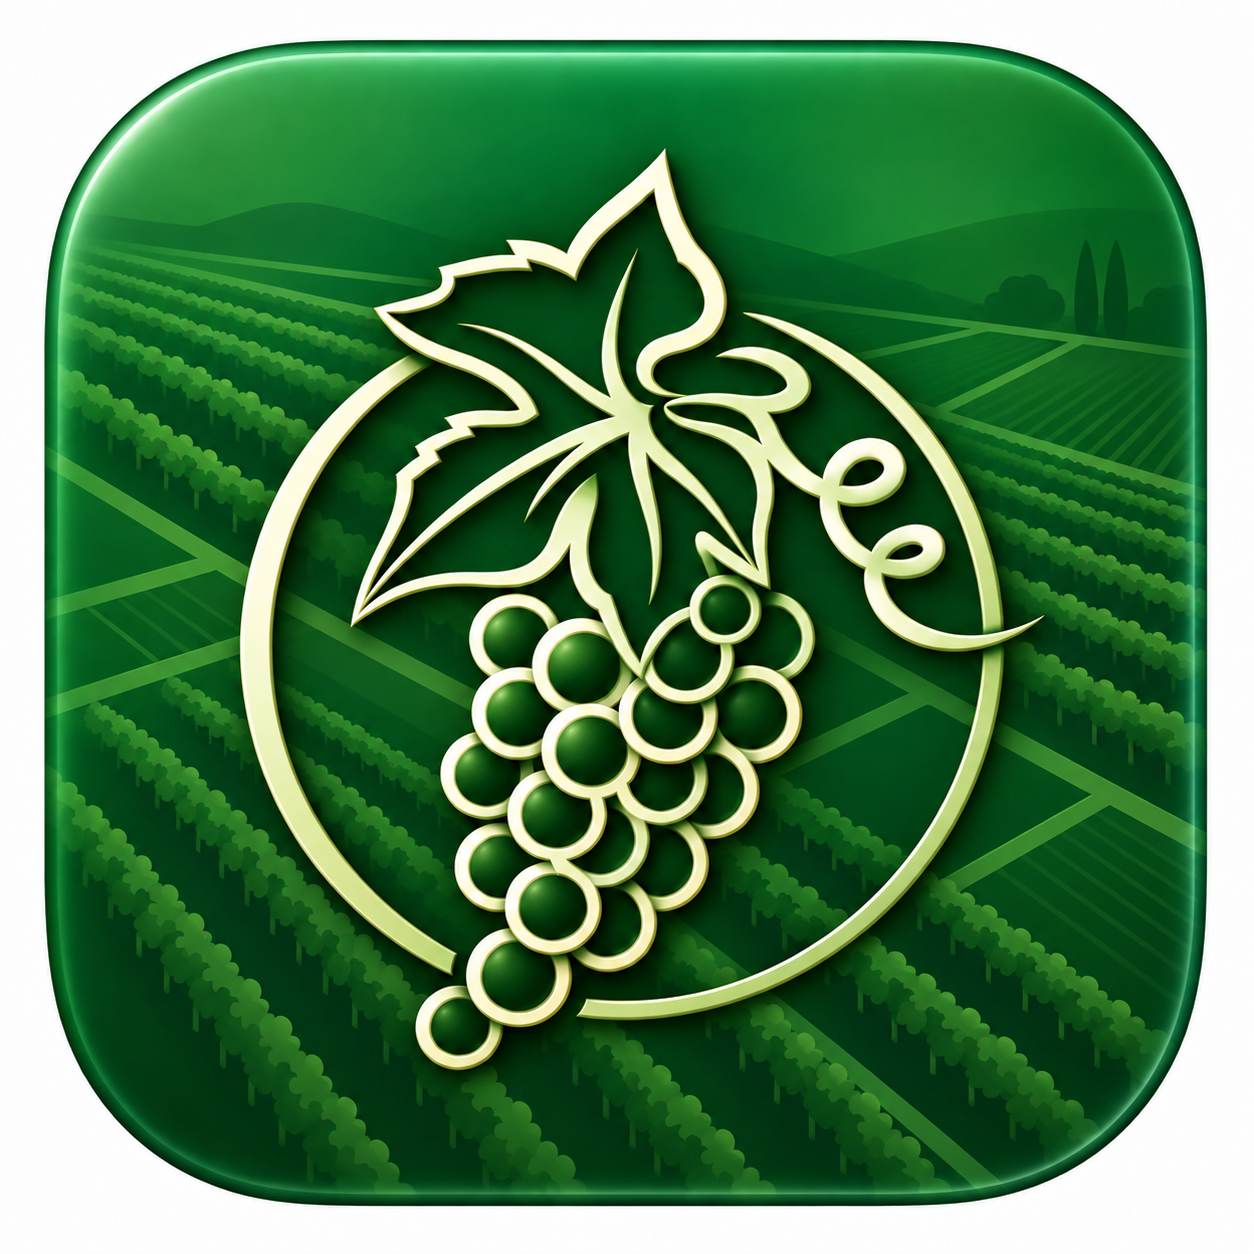
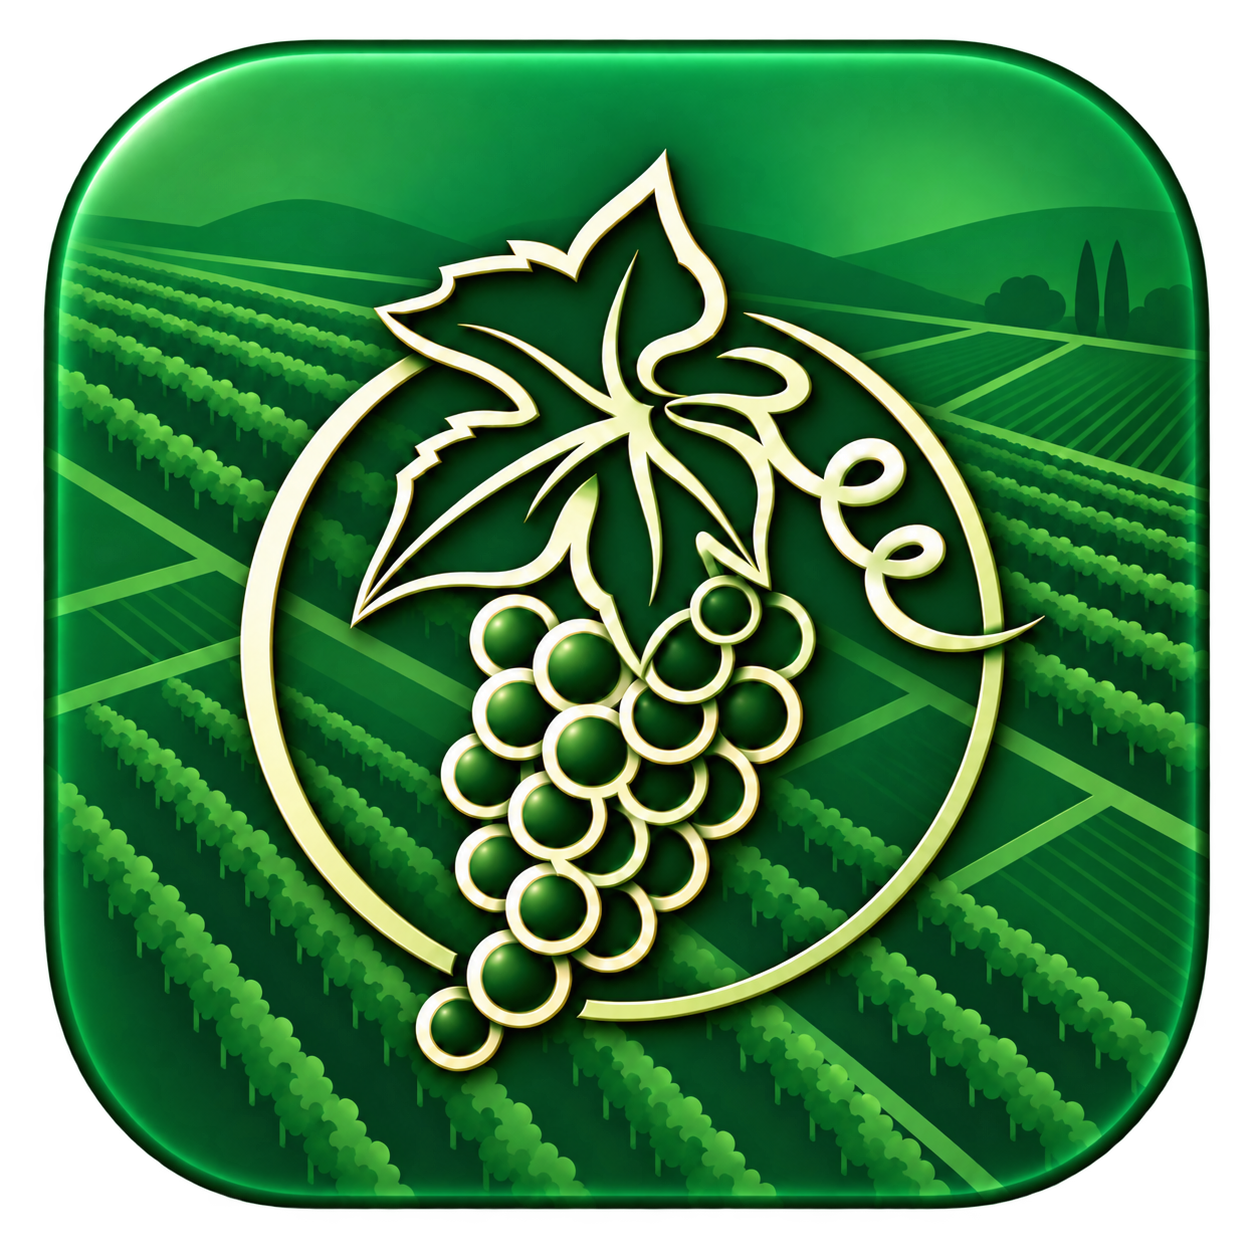
Add files via upload

diff --git a/src/mobile-ui.js b/src/mobile-ui.js
@@ -14,7 +14,7 @@ export function createMobileUI(api){
  const root=document.createElement('div');root.id='mobile-app';root.className='mobile-only';
  root.innerHTML=`
  <div id="mobile-map-host"></div>
- <header class="mobile-brand"><img src="./assets/logo-vivai-obice-v14.png?v=14" alt="Vivai Obice"/><span>AMBIENTE TEST · V24.1</span></header>
+ <header class="mobile-brand"><img src="./assets/logo-vivai-obice-v14.png?v=14" alt="Vivai Obice"/><span>AMBIENTE TEST · V25</span></header>
  <div class="mobile-home-tools"><button data-sheet="search" aria-label="Cerca località">${icon('search')}</button><button data-sheet="calculator" aria-label="Calcolatore rapido">${icon('calc')}</button><button data-sheet="layers" aria-label="Livelli mappa">${icon('layers')}</button></div>
  <div class="mobile-home-bottom"><button id="mobile-active-field" class="mobile-field-chip"></button></div>
  <button id="mobile-add-field" class="mobile-primary" aria-label="Aggiungi campo">${icon('plus')}<span>Campo</span></button>
@@ -23,7 +23,7 @@ export function createMobileUI(api){
  <div id="mobile-drawing-actions"><button id="mobile-undo">↶ Ultimo punto</button><button id="mobile-stop-tool">Annulla disegno</button><button id="mobile-finish-edit">Fine modifica</button></div>
  <main id="mobile-pages">
   <section data-screen="fields"><header class="mobile-page-heading"><h1>Campi</h1><button id="mobile-add-from-fields" aria-label="Aggiungi campo">${icon('plus')}</button></header><div id="mobile-fields-total"></div><div id="mobile-fields-list"></div></section>
-  <section data-screen="detail"><header class="mobile-page-heading"><button data-go="fields" aria-label="Torna ai campi">${icon('back')}</button><h1 id="mobile-detail-title">Campo</h1></header><div id="mobile-field-detail"></div><div class="mobile-two-actions"><button id="mobile-edit-parameters" class="mobile-primary">Modifica impianto</button><button id="mobile-edit-map">Modifica sulla mappa</button></div><div class="mobile-two-actions"><button id="mobile-detail-pdf">Proposta / PDF</button><button id="mobile-detail-quote">Preventivo</button></div><button id="mobile-delete-field" class="mobile-delete-field">Elimina campo</button></section>
+  <section data-screen="detail"><header class="mobile-page-heading"><button data-go="fields" aria-label="Torna ai campi">${icon('back')}</button><h1 id="mobile-detail-title">Campo</h1></header><div id="mobile-detail-map" aria-label="Mappa satellitare interattiva del campo"></div><div id="mobile-field-detail"></div><div class="mobile-two-actions"><button id="mobile-edit-parameters" class="mobile-primary">Modifica impianto</button><button id="mobile-edit-map">Modifica sulla mappa</button></div><div class="mobile-two-actions"><button id="mobile-detail-pdf">Proposta / PDF</button><button id="mobile-detail-quote">Preventivo</button></div><button id="mobile-delete-field" class="mobile-delete-field">Elimina campo</button></section>
   <section data-screen="parameters"><header class="mobile-page-heading"><button id="mobile-cancel-field">Annulla</button><h1>Imposta l’impianto</h1></header><div id="mobile-parameters-preview"></div><div id="mobile-parameters-body"></div><button id="mobile-parameters-map">Modifica perimetro e passaggi</button><div id="mobile-parameters-metrics"></div><p id="mobile-save-error" role="alert"></p><button id="mobile-save-field" class="mobile-primary">Salva impianto</button><p class="mobile-storage-note">Salvato su questo dispositivo. PDF e preventivo sono disponibili nella scheda del campo.</p></section>
   <section data-screen="projects"><header class="mobile-page-heading"><h1>Progetti</h1><button id="mobile-new-project">${icon('plus')} Nuovo</button></header><label class="mobile-label">Nome progetto<input id="mobile-project-name" maxlength="80" placeholder="Il mio impianto"/></label><button id="mobile-save-project" class="mobile-primary">Salva progetto attuale</button><p class="mobile-storage-note">Progetti salvati su questo dispositivo</p><div id="mobile-projects-list"></div></section>
  </main>
@@ -37,9 +37,12 @@ export function createMobileUI(api){
  function showNotice(message){$('#mobile-notice').textContent=message;$('#mobile-notice').hidden=false;}
  function placeMap(next){
   const preview=$('#mobile-parameters-preview');
+  map.classList.toggle('mobile-viewer-only',next==='detail');
   if(next==='parameters'){
    preview.replaceChildren();preview.dataset.base='satellite';preview.append(map);api.showSatellitePreview?.();
    $('#mobile-parameters-body').dataset.mobileInteractive='true';
+  }else if(next==='detail'){
+   const detail=$('#mobile-detail-map');detail.replaceChildren();detail.dataset.base='satellite';detail.append(map);api.showSatellitePreview?.();
   }else{
    const host=$('#mobile-map-host');host.append(map);delete preview.dataset.base;
    if(next==='fields'){host.dataset.base='satellite';api.showSatellitePreview?.();}
@@ -49,6 +52,7 @@ export function createMobileUI(api){
  function protectNativeControls(container){
   for(const type of ['touchstart','touchend','pointerdown','pointerup'])container.addEventListener(type,event=>{
    const control=event.target.closest?.('input,select,textarea');if(!control)return;
+   if(control.matches('select'))return;
    if(type==='touchstart'&&control.matches('input:not([type="range"]):not([type="checkbox"]),textarea')){
     try{control.focus({preventScroll:true});}catch{control.focus();}
    }
@@ -68,7 +72,7 @@ export function createMobileUI(api){
   if(next!=='editor'){api.stopTools();drawing=false;editing=false;}
   placeOrientation();renderField();
   if(next==='fields')renderFields();if(next==='detail')renderDetail();if(next==='projects')renderProjects();
-  api.resizeMap();if(next==='map')api.focusAll();
+  api.resizeMap();if(next==='map')api.focusAll();if(next==='detail')api.focusField();
  }
  function placeOrientation(){
   const parent=screen==='editor'?sheet.querySelector('[data-content="orientation"]'):$('.step[data-step="2"]');
@@ -120,7 +124,21 @@ export function createMobileUI(api){
   $('#mobile-fields-total').innerHTML=`<strong>${fields.length} campi · ${area(sum('areaM2'))}</strong><span>${n(sum('simulatedPlants'))} barbatelle · ${n(sum('totalPosts'))} pali</span><small>${n(sum('intermediatePosts'))} intermedi · ${n(sum('headPosts'))} di testa</small>`;
   const list=$('#mobile-fields-list');list.replaceChildren();
   if(!fields.length){list.innerHTML='<p class="mobile-empty">Nessun campo disegnato. Aggiungi il primo campo dalla mappa.</p>';return;}
-  for(const field of fields){const m=api.getMetrics(field),row=document.createElement('div'),button=document.createElement('button'),remove=document.createElement('button');row.className='mobile-field-card-row';button.type='button';button.className='mobile-field-card';button.dataset.fieldId=field.id;button.innerHTML=`<div class="mobile-card-preview">${preview(field)}</div><div><strong>${escape(field.label)}</strong><span>${area(m.areaM2)} · ${n(m.simulatedPlants)} barbatelle</span><small>${escape(field.grapeVariety||'Vitigno da definire')} · ${n(m.totalPosts)} pali</small></div><b aria-hidden="true">›</b>`;button.addEventListener('click',()=>openField(field.id));remove.type='button';remove.className='mobile-card-delete';remove.dataset.removeField=field.id;remove.setAttribute('aria-label',`Elimina ${field.label}`);remove.textContent='−';remove.addEventListener('click',()=>deleteField(field.id));row.append(button,remove);list.append(row);}
+  for(const field of fields){
+   const m=api.getMetrics(field),row=document.createElement('div'),button=document.createElement('button'),remove=document.createElement('button');
+   let swipeStartX=null,suppressOpen=false;
+   row.className='mobile-field-card-row';button.type='button';button.className='mobile-field-card';button.dataset.fieldId=field.id;
+   button.innerHTML=`<div class="mobile-card-preview">${preview(field)}</div><div><strong>${escape(field.label)}</strong><span>${area(m.areaM2)} · ${n(m.simulatedPlants)} barbatelle</span><small>${escape(field.grapeVariety||'Vitigno da definire')} · ${n(m.totalPosts)} pali</small></div><b aria-hidden="true">›</b>`;
+   button.addEventListener('pointerdown',event=>{swipeStartX=event.clientX;});
+   button.addEventListener('pointerup',event=>{
+    if(swipeStartX===null)return;const delta=event.clientX-swipeStartX;swipeStartX=null;if(Math.abs(delta)<45)return;
+    suppressOpen=true;for(const other of list.querySelectorAll('.mobile-field-card-row.delete-revealed'))if(other!==row)other.classList.remove('delete-revealed');
+    row.classList.toggle('delete-revealed',delta<0);remove.setAttribute('aria-hidden',delta<0?'false':'true');remove.tabIndex=delta<0?0:-1;
+   });
+   button.addEventListener('click',()=>{if(suppressOpen){suppressOpen=false;return;}openField(field.id);});
+   remove.type='button';remove.className='mobile-card-delete';remove.dataset.removeField=field.id;remove.setAttribute('aria-label',`Elimina ${field.label}`);remove.setAttribute('aria-hidden','true');remove.tabIndex=-1;remove.textContent='Elimina';remove.addEventListener('click',()=>deleteField(field.id));
+   row.append(remove,button);list.append(row);
+  }
  }
  function openField(id){if(transaction)return;api.selectField(id);navigate('detail');}
  function deleteField(id){
@@ -129,7 +147,7 @@ export function createMobileUI(api){
  }
  function renderDetail(){
   const field=api.getField();$('#mobile-detail-title').textContent=field.label||'Campo';
-  $('#mobile-field-detail').innerHTML=`<div class="mobile-large-preview">${preview(field)}</div>${metricsHtml(field)}<dl class="mobile-materials">${[
+  $('#mobile-field-detail').innerHTML=`${metricsHtml(field)}<dl class="mobile-materials">${[
    ['Sesto',`${n(field.plantSpacingM)} × ${n(field.rowSpacingM)} m`],['Capezzagne',`${n(field.headlandWidthM)} m`],['Distanza pali',`${n(field.postSpacingM)} m`],['Orientamento',`${n(field.orientationDeg)}°`],['Vitigno',field.grapeVariety||'Da definire'],['Portainnesto',field.rootstock||'Da definire'],['Clone',field.cloneSelection||'Da definire'],['Vendemmia meccanica',field.mechanizedHarvest?'Sì':'No'],['Passaggi / esclusioni',n(field.exclusions?.length)],['Note',field.projectContextNote||'—']
   ].map(([label,value])=>`<div><dt>${label}</dt><dd>${escape(value)}</dd></div>`).join('')}</dl><p class="mobile-storage-note">Stima preliminare da verificare in fase di progettazione definitiva.</p>`;
  }

diff --git a/mobile.css b/mobile.css
@@ -1,4 +1,4 @@
-/* V24: mobile application shell. Desktop declarations are untouched. */
+/* V25: mobile application shell. Desktop declarations are untouched. */
 .mobile-only{display:none}
 @media(max-width:800px), (max-width:1100px) and (pointer:coarse){
  body.mobile-app-active{margin:0;padding:0;overflow:hidden;height:100dvh;background:#edf2ed}
@@ -46,13 +46,17 @@
  #mobile-fields-total{padding:19px;border-radius:18px;background:#225939;color:white;margin-bottom:18px;display:grid;gap:7px}
  #mobile-fields-total strong{font-size:20px}#mobile-fields-total span{font-size:14px}#mobile-fields-total small{font-size:12px;color:#d7e5d4}
  #mobile-fields-list,#mobile-projects-list{display:grid;gap:12px}
- .mobile-field-card-row{display:grid;grid-template-columns:minmax(0,1fr) 42px;gap:7px;align-items:stretch}
- #mobile-app .mobile-field-card{display:grid;grid-template-columns:88px minmax(0,1fr) 12px;gap:12px;padding:12px;text-align:left;background:#fff;border:1px solid #e0e6dc;border-radius:18px;width:100%}
- #mobile-app .mobile-card-delete{width:42px;min-width:42px;padding:0;border-radius:16px;background:rgba(255,255,255,.86);border:1px solid rgba(128,47,43,.22);color:#8a2f2b;font-size:25px;box-shadow:0 4px 14px rgba(24,56,37,.08)}
+ .mobile-field-card-row{position:relative;overflow:hidden;border-radius:18px;touch-action:pan-y}
+ #mobile-app .mobile-field-card{position:relative;z-index:2;display:grid;grid-template-columns:88px minmax(0,1fr) 12px;gap:12px;padding:12px;text-align:left;background:#fff;border:1px solid #e0e6dc;border-radius:18px;width:100%;transform:translateX(0);transition:transform .2s ease;touch-action:pan-y}
+ #mobile-app .mobile-card-delete{position:absolute;z-index:1;inset:0 0 0 auto;width:86px;min-width:86px;padding:0;border-radius:0 18px 18px 0;background:#a33c36;color:#fff;font-size:12px;box-shadow:none;pointer-events:none;opacity:0;transition:opacity .15s ease}
+ #mobile-app .mobile-field-card-row.delete-revealed .mobile-field-card{transform:translateX(-86px)}
+ #mobile-app .mobile-field-card-row.delete-revealed .mobile-card-delete{pointer-events:auto;opacity:1}
  .mobile-card-preview svg{display:block;width:100%;height:74px;border-radius:10px}
  .mobile-field-card strong,.mobile-field-card span,.mobile-field-card small{display:block}
  .mobile-field-card strong{font-size:16px;margin-bottom:7px}.mobile-field-card span{font-size:12px;font-weight:500}.mobile-field-card small{font-size:11px;color:#7d877b;margin-top:5px}
- .mobile-large-preview svg{width:100%;height:auto;display:block;border-radius:18px;margin-bottom:16px;background:#e8efe3}
+ #mobile-detail-map{position:relative;width:100%;height:min(45dvh,390px);min-height:270px;margin-bottom:16px;border-radius:18px;overflow:hidden;background:#dce5dc;box-shadow:inset 0 0 0 1px #d8dfd6;touch-action:auto}
+ #mobile-detail-map .map-wrap{pointer-events:auto!important;touch-action:auto!important}
+ #mobile-detail-map .map-toolbar,#mobile-detail-map #map-fullscreen-button,#mobile-detail-map #fullscreen-exclusions,#mobile-detail-map .maplibregl-control-container{display:none!important}
  #mobile-parameters-preview{position:relative;width:100%;height:min(48dvh,430px);min-height:280px;margin-bottom:16px;border-radius:18px;overflow:hidden;background:#dce5dc;box-shadow:inset 0 0 0 1px #d8dfd6;pointer-events:none}
  #mobile-parameters-preview .map-wrap{pointer-events:none!important}
  .mobile-metrics{display:grid;grid-template-columns:1fr 1fr;gap:8px;margin:14px 0}

diff --git a/index.html b/index.html
@@ -4,15 +4,15 @@
   <meta charset="utf-8" />
   <meta name="viewport" content="width=device-width, initial-scale=1, viewport-fit=cover" />
   <meta name="theme-color" content="#16251c" />
-  <link rel="manifest" href="./manifest.webmanifest?v=24" />
-  <link rel="icon" type="image/png" href="./assets/vivai-obice-app-icon.png?v=24" />
-  <link rel="apple-touch-icon" href="./assets/vivai-obice-app-icon.png?v=24" />
+  <link rel="manifest" href="./manifest.webmanifest?v=24.2" />
+  <link rel="icon" type="image/png" href="./assets/vivai-obice-app-icon.png?v=24.2" />
+  <link rel="apple-touch-icon" href="./assets/vivai-obice-app-icon.png?v=24.2" />
   <title>Configuratore | Vivai Obice</title>
   <link rel="preconnect" href="https://unpkg.com" />
   <link rel="stylesheet" href="https://unpkg.com/maplibre-gl@4.7.1/dist/maplibre-gl.css" />
   <link rel="stylesheet" href="https://unpkg.com/@mapbox/mapbox-gl-draw@1.5.0/dist/mapbox-gl-draw.css" />
   <link rel="stylesheet" href="./styles.css?v=18" />
-  <link rel="stylesheet" href="./mobile.css?v=24.1" />
+  <link rel="stylesheet" href="./mobile.css?v=25" />
 </head>
 <body>
   <header class="topbar">
@@ -20,7 +20,7 @@
       <img class="brand-logo" src="./assets/logo-vivai-obice-v14.png?v=14" alt="Vivai Obice · Barbatelle di vite innestate" />
       <span class="brand-caption">Configuratore</span>
     </a>
-    <span class="test-badge">AMBIENTE TEST · V24</span>
+    <span class="test-badge">AMBIENTE TEST · V25</span>
   </header>
 
   <main class="app-shell">
@@ -171,6 +171,6 @@
 
   <script src="https://unpkg.com/maplibre-gl@4.7.1/dist/maplibre-gl.js"></script>
   <script src="https://unpkg.com/@mapbox/mapbox-gl-draw@1.5.0/dist/mapbox-gl-draw.js"></script>
-  <script type="module" src="./src/app.js?v=24.1"></script>
+  <script type="module" src="./src/app.js?v=25"></script>
 </body>
 </html>

diff --git a/src/app.js b/src/app.js
@@ -1,5 +1,5 @@
 import { createInitialState, mergeProjectState, applyGeometryWithSuggestedOrientation } from './state.js';
-import { createMobileUI } from './mobile-ui.js?v=24.1';
+import { createMobileUI } from './mobile-ui.js?v=25';
 import { readLocalProjects, writeLocalProject } from './local-projects.js?v=19';
 import { initMap } from './map.js?v=20';
 import { calculateProject, calculateManualPlants } from './project-calculator.js?v=16';

diff --git a/PROMPT_JOURNAL.md b/PROMPT_JOURNAL.md
@@ -217,6 +217,28 @@ Correzioni:
   propagazione fermata senza annullare l’evento e focus iOS esplicito su input/textarea al `touchstart`.
 - Nessuna modifica grafica, ai calcoli o al desktop.
 
+### V24.2 — sostituzione icona WebApp e favicon
+
+- Sostituito esclusivamente `assets/vivai-obice-app-icon.png` con la nuova icona trasparente
+  fornita dall’utente.
+- Aggiornato il cache-busting di favicon, Apple Touch Icon e manifest a `v=24.2` per impedire a
+  Safari/iOS di mantenere l’asset precedente.
+- Nessuna modifica a interfaccia, interazioni, calcoli o desktop.
+
+### V25 — menu iOS, eliminazione a scomparsa e scheda Campo LIVE
+
+- Richiesta: tutti i menu a tendina mobile devono tornare utilizzabili su Safari/iOS.
+- Causa corretta: la protezione dei controlli intercettava anche gli eventi touch/pointer dei `select`;
+  i menu ora seguono interamente il percorso nativo del browser senza `preventDefault` o stop della propagazione.
+- Nell’elenco Campi il comando elimina non è più sempre visibile: compare trascinando la scheda verso
+  sinistra, in stile Mail, e mantiene la conferma prima della cancellazione.
+- La scheda del singolo campo resta invariata nei dati e nelle azioni, ma l’anteprima SVG statica è
+  sostituita dalla mappa satellitare LIVE, navigabile con pan, pinch-zoom e rotazione gestuale.
+- Il riquadro mappa della scheda non espone pulsanti, toolbar o strumenti di modifica. Per modificare
+  il progetto si entra nell’editor oppure si torna alla Home Mappa.
+- Modifiche confinate a `src/mobile-ui.js`, `mobile.css`, cache/versione e test mobile; `styles.css`,
+  calcoli, geometrie e comportamento desktop restano invariati.
+
 ## Errori già incontrati e correzioni
 
 - **Download ZIP non partiva:** consegnare sempre link `sandbox:` diretto a `/mnt/data/...zip` e
@@ -278,10 +300,10 @@ Correzioni:
 8. Non dichiarare “testato su iPhone” senza prova reale su Safari iOS.
 9. Conservare lo ZIP precedente tramite cronologia versioni; sostituire l'identità persistente corrente.
 
-## Stato di verifica e limitazioni alla V24
+## Stato di verifica e limitazioni alla V25
 
 - Test unitari/DOM automatizzati: vedere l'output dell'ultima esecuzione e `README.md`.
-- Test nativo Safari iPhone: ancora necessario dopo la consegna della V24.
+- Test nativo Safari iPhone: ancora necessario dopo la consegna della V25.
 - Il browser remoto non può raggiungere il server locale del workspace; una verifica DOM automatizzata
   non sostituisce la prova tattile su dispositivo.
 - L'archivio `Progetti` è locale al browser/dispositivo. La sincronizzazione cloud esistente resta

diff --git a/README.md b/README.md
@@ -2,7 +2,15 @@
 
 Web app autonoma per la progettazione preliminare di impianti viticoli.
 
-Stato: ambiente TEST · release V24.1 WebApp.
+Stato: ambiente TEST · release V25 WebApp.
+
+## V25 — interazioni mobile e scheda Campo LIVE
+
+- Menu a tendina lasciati al percorso eventi nativo di Safari/iOS, senza intercettazione touch.
+- Eliminazione rapida nell’elenco Campi nascosta finché la scheda non viene trascinata verso sinistra.
+- L’anteprima nella scheda Campo usa la mappa satellitare LIVE con pan, zoom e rotazione gestuale.
+- Il riquadro LIVE non mostra pulsanti, toolbar o comandi di modifica; per modificare si usa l’editor o la Home Mappa.
+- Versione desktop e regole di calcolo invariate.
 
 ## V20 — fix interazione mobile
 
@@ -40,7 +48,7 @@ Stato: ambiente TEST · release V24.1 WebApp.
 Caricare tutti i file di questo archivio nella cartella del sito, sostituendo la versione precedente.
 Aprire tramite HTTP/HTTPS, non direttamente come file locale. Non serve una compilazione per pubblicare.
 Per i test di sviluppo: `npm ci`, `npm test`, `npm run check`.
-226 test automatici verificati, compresi tocchi Safari, selezione campo, rotazione mobile,
+249 test automatici verificati, compresi menu Safari, swipe eliminazione, scheda Campo LIVE,
 flusso mobile a schermate, archivio progetti,
 navigazione sul DOM, ripristino desktop e calcolo dei tagli.
 Il browser remoto di verifica non raggiunge la copia locale: resa visiva, gesti e rotazione vanno ancora verificati su Safari iPhone reale.
